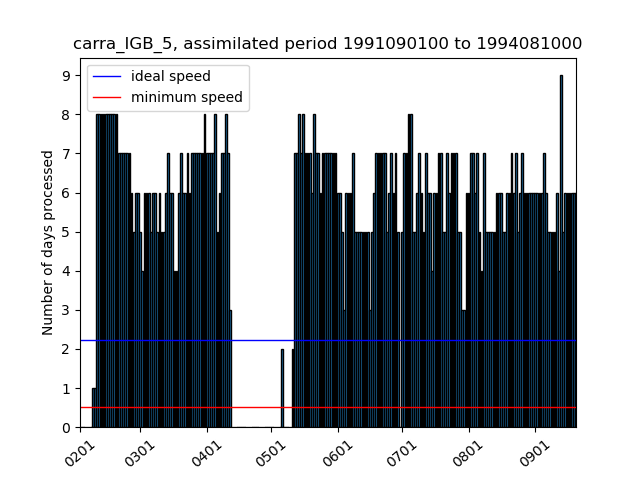
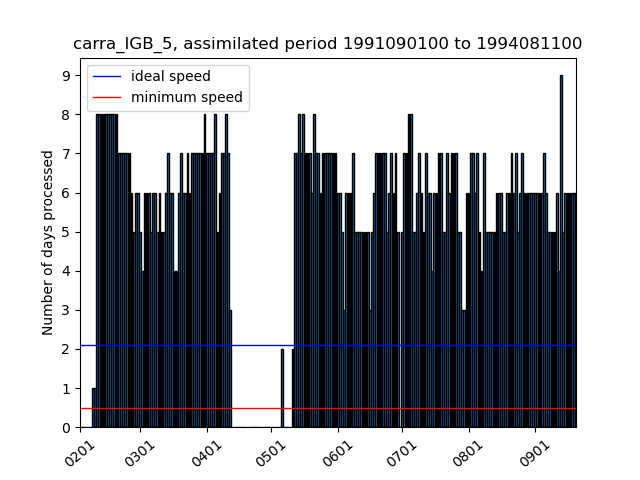
update repo

Changed region(s): [[0.125, 0.6875, 0.9062, 0.75], [0.125, 0.8438, 0.9062, 0.875], [0.8438, 0.0625, 0.875, 0.0938]]

diff --git a/current_state_sims.html b/current_state_sims.html
@@ -2,18 +2,18 @@
 <h1>Estimated completion dates and simulation speeds</h1>
 <p>Stream (production) completion date based on 30d (7d) moving avg speed</p>
 <p><a href="https://docs.google.com/document/d/1zDKAxuEXYnWWYzT3SZnZwY5WW8nodUMeYRjAGz46coc/edit#">Details of the calculation of the completion dates</a></p>
-<p>Last update: 2021/09/21 12:43:02 UTC</p>
+<p>Last update: 2021/09/21 18:44:05 UTC</p>
 <p>Total progress CARRA: 99.22% <a href="https://hirlam.org/portal/CARRA/Progress/GanntChart_CARRA.html"> (see detailed progress meter in Gantt chart) </a></p>
 <p>Total progress PANARCTIC: 90.91% </p>
 <p><a href="https://hirlam.org/portal/CARRA/Progress/waiting_times.html"> Queue waiting times for all streams</a></p>
 <p><a href="https://hirlam.org/portal/CARRA/Progress/mars_status.html"> MARS archive throughput </a></p>
 <html><table border="1"><tr><th>expId</th><th>Current assimilated date</th><th>End date of stream </th><th> Completion date</th><th> Avg. throughput (7d) </th> <th>Avg. throughput (30d) </th> <th> Remarks</tr>
-<tr bgcolor="#FFFFFF"><td>carra_NE_3</td><td>2021063000</td><td>2021063021</td><td>2021092112</td><td>(5.71) days/day</td><td>(3.63) days/day</td><td></tr>
-<tr bgcolor="#33FF38"><td>carra_NE_4</td><td>1992090100</td><td>1992083021</td><td>2021091808</td><td>(0.0) days/day</td><td>(0.63) days/day</td><td>Stream finished</tr>
-<tr bgcolor="#33FF38"><td>carra_NE_5</td><td>1994090100</td><td>1994083021</td><td>2021091819</td><td>(0.0) days/day</td><td>(0.73) days/day</td><td>Stream finished</tr>
-<tr bgcolor="#33FF38"><td>carra_NE_6</td><td>1997070100</td><td>1997063021</td><td>2021092108</td><td>(1.71) days/day</td><td>(5.9) days/day</td><td>Stream finished</tr>
-<tr bgcolor="#FFFFFF"><td>carra_IGB_3</td><td>2021063000</td><td>2021063021</td><td>2021092112</td><td>(5.71) days/day</td><td>(3.37) days/day</td><td></tr>
-<tr bgcolor="#33FF38"><td>carra_IGB_4</td><td>1992090100</td><td>1992083021</td><td>2021092023</td><td>(0.0) days/day</td><td>(3.57) days/day</td><td>Stream finished</tr>
-<tr bgcolor="#FFFFFF"><td>carra_IGB_5</td><td>1994081000</td><td>1994083021</td><td>2021092421</td><td>(5.86) days/day</td><td>(5.93) days/day</td><td></tr>
-<tr bgcolor="#FFFFFF"><td>carra_IGB_6</td><td>1996110400</td><td>1997063021</td><td>2021103120</td><td>(5.57) days/day</td><td>(5.9) days/day</td><td></tr>
-<tr bgcolor="#FFFFFF"><td>carra_pan</td><td>2018071503</td><td>2018083121</td><td>2021100612</td><td>(3.14) days/day</td><td>(3.13) days/day</td><td></tr>
+<tr bgcolor="#FFFFFF"><td>carra_NE_3</td><td>2021063000</td><td>2021063021</td><td>2021092118</td><td>(5.71) days/day</td><td>(3.63) days/day</td><td></tr>
+<tr bgcolor="#33FF38"><td>carra_NE_4</td><td>1992090100</td><td>1992083021</td><td>2021091814</td><td>(0.0) days/day</td><td>(0.63) days/day</td><td>Stream finished</tr>
+<tr bgcolor="#33FF38"><td>carra_NE_5</td><td>1994090100</td><td>1994083021</td><td>2021091901</td><td>(0.0) days/day</td><td>(0.73) days/day</td><td>Stream finished</tr>
+<tr bgcolor="#33FF38"><td>carra_NE_6</td><td>1997070100</td><td>1997063021</td><td>2021092114</td><td>(1.71) days/day</td><td>(5.9) days/day</td><td>Stream finished</tr>
+<tr bgcolor="#FFFFFF"><td>carra_IGB_3</td><td>2021063000</td><td>2021063021</td><td>2021092118</td><td>(5.71) days/day</td><td>(3.37) days/day</td><td></tr>
+<tr bgcolor="#33FF38"><td>carra_IGB_4</td><td>1992090100</td><td>1992083021</td><td>2021092105</td><td>(0.0) days/day</td><td>(3.57) days/day</td><td>Stream finished</tr>
+<tr bgcolor="#FFFFFF"><td>carra_IGB_5</td><td>1994081100</td><td>1994083021</td><td>2021092423</td><td>(5.86) days/day</td><td>(5.93) days/day</td><td></tr>
+<tr bgcolor="#FFFFFF"><td>carra_IGB_6</td><td>1996110500</td><td>1997063021</td><td>2021103122</td><td>(5.57) days/day</td><td>(5.9) days/day</td><td></tr>
+<tr bgcolor="#FFFFFF"><td>carra_pan</td><td>2018071512</td><td>2018083121</td><td>2021100618</td><td>(3.14) days/day</td><td>(3.13) days/day</td><td></tr>
